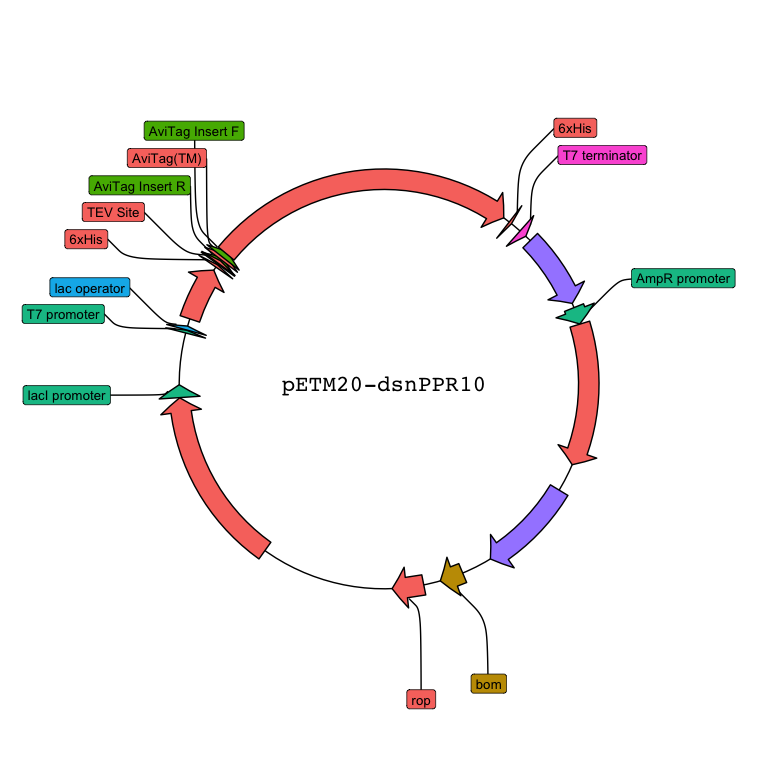
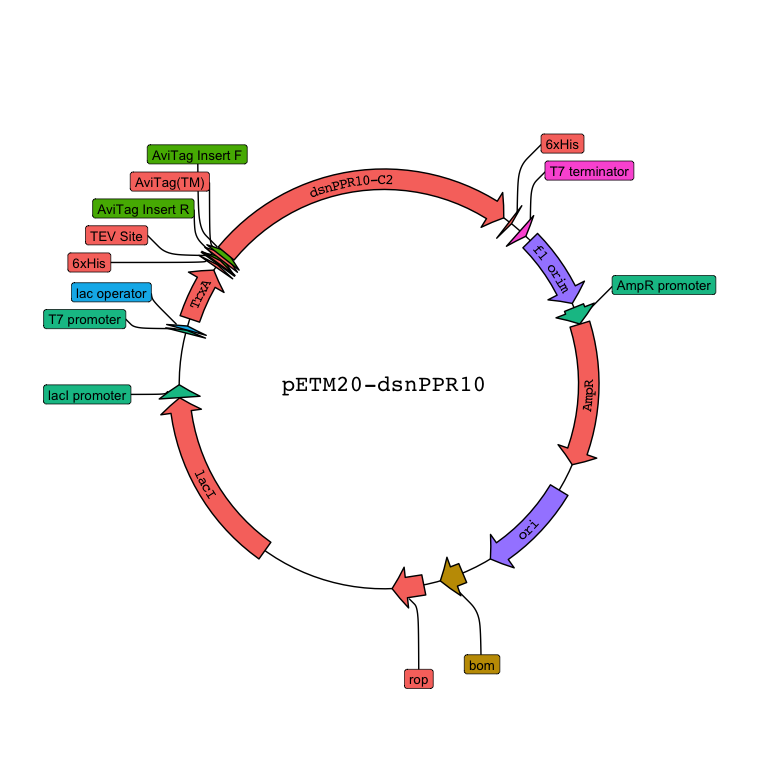
Fix ordering or arrow and text

diff --git a/README.md b/README.md
@@ -19,11 +19,7 @@ p <-
   render_plasmap(
     plasmid,
     rotation = 45,
-    repelBox = 0.2,
-    plasmid_name = "pETM20-dsnPPR10",
-    nameSize = 6, 
-    labelNudge = 1, 
-    curve = 10
+    plasmid_name = "pETM20-dsnPPR10"
   )
 
 p
